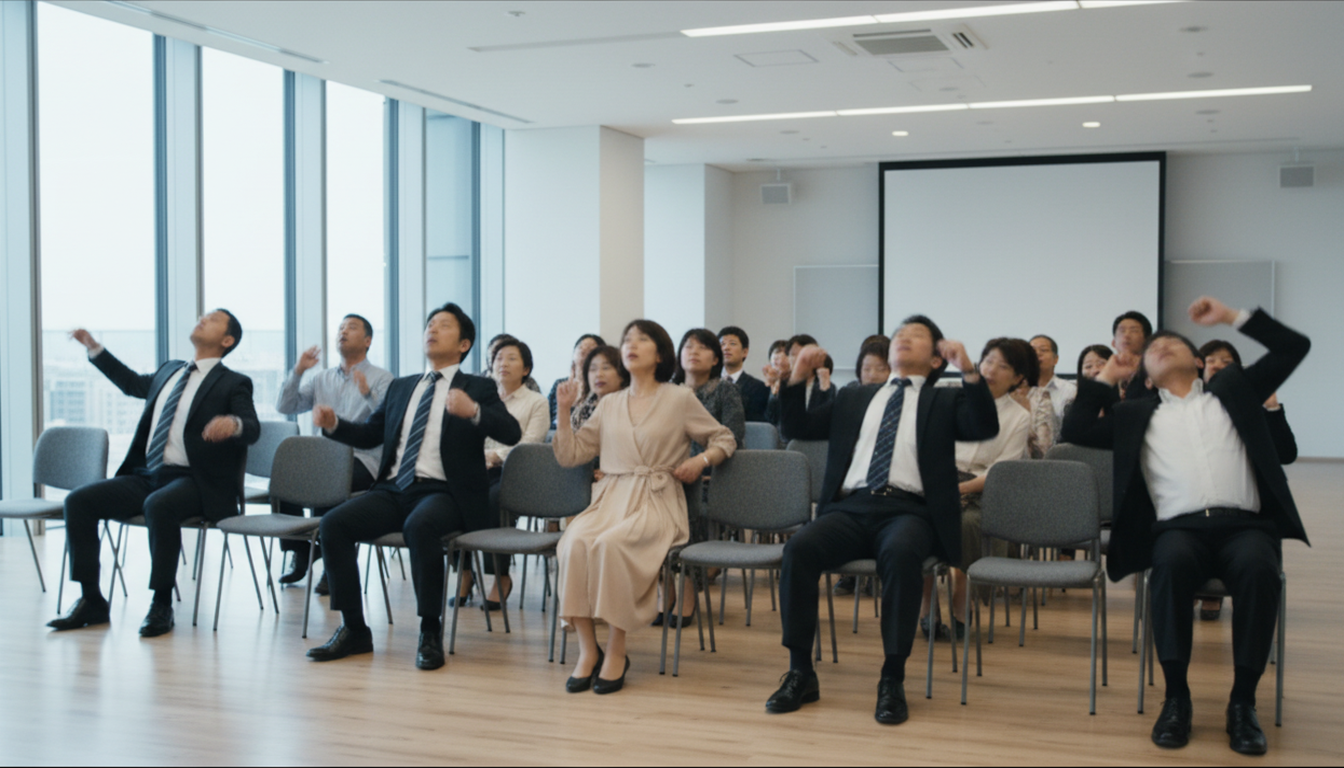
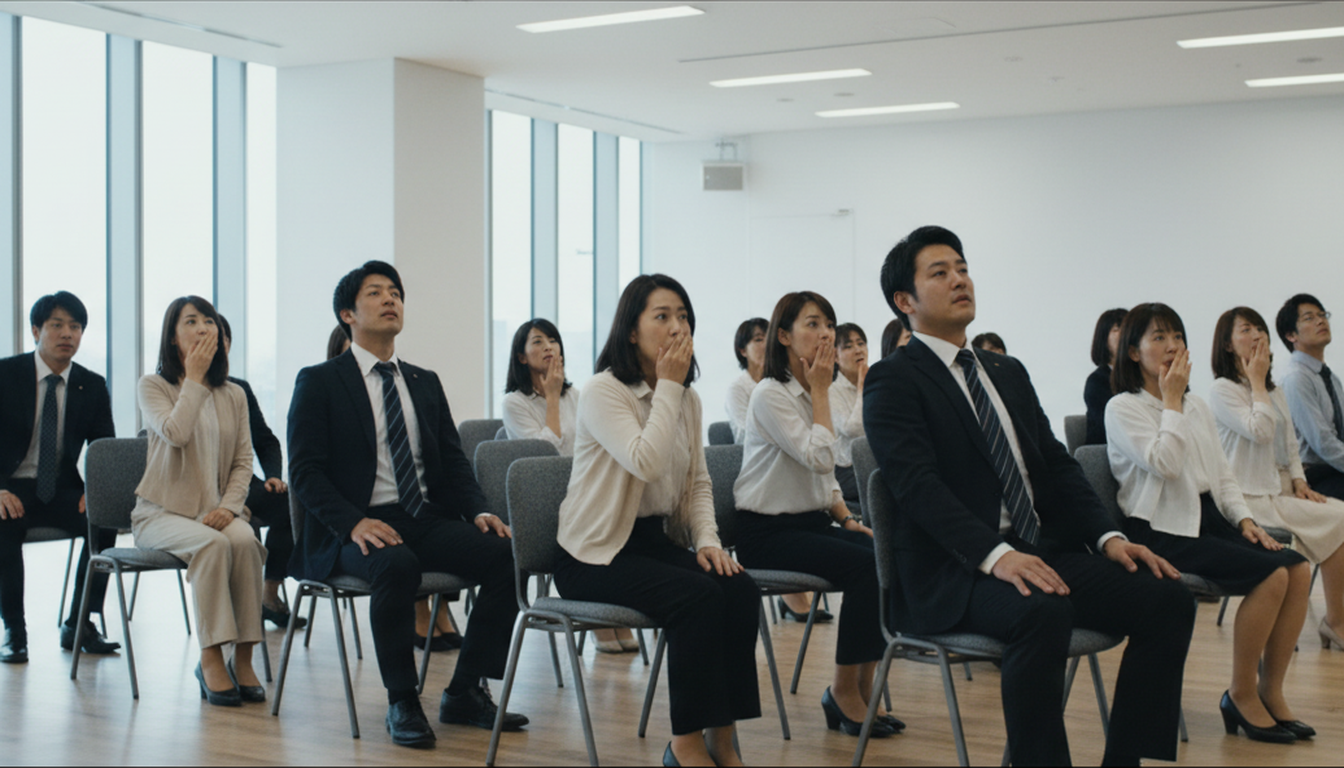
키프레임 2차 재생성 합격 반영(S14n2·S15c·S15a 크롭), 3차 재생성 스펙 3장(S14h·S16g 기준 S14n2, S05c 얼굴 셀 제외)
Claude-Session: https://claude.ai/code/session_01NcCUyptYk83EHSkd2nddfa

diff --git a/scripts/build_tower_keyframes.py b/scripts/build_tower_keyframes.py
@@ -85,24 +85,25 @@ REIKA_BY_EXPR = {"panic": "assets/portraits/tower-kf-a/S14l-1.png", "tears": "as
 FIX_B = {
     "S01d": "Insert: the brushed-steel passenger elevator doors are almost fully closed, leaving only a narrow vertical gap of about a hand's width; through the gap we glimpse ONE slice of Reika's face with a red-lipped smirk. The steel door surfaces are matte brushed metal with NO reflections of faces. Exactly one person.",
     "S05f": "Low insert at knee height ONLY: on the stage a woman's knees in cream wide-leg trousers crossing one over the other, nude heels; her face and upper body are NOT in frame. NOT a full-body shot.",
-    "S14h": "Tight chest-up close-up of Reika at the lectern: her confident smile has FROZEN and cracked — eyes fixed and frightened, a single bead of sweat running down her temple, face pale. NOT smiling happily. No hands.",
+    "S14h": "Eye-level tight chest-up close-up of Reika at the lectern, her face frozen in shock: eyes fixed and frightened, mouth slightly open, a single bead of sweat running down her temple, face pale. NO smile at all. No hands.",
     "S14n2": "High angle close-up of Reika (chest-up) staring down at something off-frame below, colour draining from her face, lips parted in fear. Her hands are NOT visible and she holds NOTHING.",
-    "S16g": "High angle tight close-up of Reika at the lectern, trembling, lips parted, eyes glassy with fear, face pale. NOT smiling. No hands.",
+    "S16g": "Camera ABOVE her eye line looking DOWN (high angle), tight close-up of head and shoulders only — NOT a medium shot, the lectern is NOT visible. Reika trembling, lips parted, eyes glassy with fear, face pale. NOT smiling. No hands.",
     "S17a": "ONE single frame (NOT two panels, NOT a split screen): side insert at floor level of a woman's knees in cream wide-leg trousers buckling, nude heels wobbling on the pale wood stage floor; her upper body NOT in frame.",
     "S17e2": "High angle tight close-up of Reika SITTING ON THE FLOOR, devastated: mouth falling open, tears welling and running, mascara slightly smudged. NOT smiling. No hands.",
     "S17g": "High angle close-up of Reika SITTING ON THE FLOOR beside the lectern, looking up pleadingly with wet eyes toward the front row, desperate. NOT standing, NOT smiling.",
     "S19d": "High angle tight close-up of Reika in the lobby clutching a stack of moving boxes against her chest (box edges at the bottom of frame), jaw clenched, eyes lowered in humiliation, lips pressed tight. NOT smiling, NOT surprised.",
     "S14e": "", "S14a": "", "S14c": "",
     # 크롭으로 못 고치는 인서트(얼굴을 자르면 4배 확대, 핸드 마이크라 스탠드를 쥔 손이 없음)
-    "S05c": "Tight insert framed from the shoulders down to the waist ONLY: three seated women side by side in the front row clapping eagerly in front of their chests (pink sweater, white blouse, beige cardigan); their heads and faces are OUT OF FRAME above the top edge. Hands with exactly five fingers each.",
+    "S05c": "Close insert of clapping hands at chest height: the camera is low and close, the top edge of the frame cuts across three seated women's collarbones, so only their torsos and clapping hands are in the picture (pink sweater, white blouse, beige cardigan) with blurred seated residents behind. Do NOT draw heads; NO masks, NO circles, NO blur patches, NO stickers. Hands with exactly five fingers each.",
     # B 재생성 2차(2026-10-07): S14l(굳은 미소) 참조가 미소를 끌고 옴 → 재생성 합격 공포 얼굴, 빈 의자 배경 → 주민 뒷머리 전경(S16d)
     "S15c": "Medium of the front rows of seated residents (men in suits, women in blouses) startled by a shout: they lean back slightly in their chairs with wide eyes, a few cover their mouths with one hand. Arms stay DOWN — nobody raises arms, nobody throws hands up, nobody stands. Faces soft and unrecognizable.",
     "S15a": "Macro insert, ONE hand only: a woman's hand with a thin gold bangle and cream tweed sleeve cuff tightly gripping the vertical chrome shaft of a microphone stand on the wooden lectern, knuckles white with tension. The microphone is mounted on the stand (NOT handheld). Her face is NOT in frame. Exactly five fingers.",
 }
 
 
-FEAR_FACE = {"S14h": "assets/portraits/tower-cast/cells/reika-fear-1.png", "S16g": "assets/portraits/tower-cast/cells/reika-fear-2.png",
+FEAR_FACE = {"S14h": "assets/portraits/tower-cast/cells/reika-fear-3.png", "S16g": "assets/portraits/tower-cast/cells/reika-fear-3.png",
              "S14n2": "assets/portraits/tower-cast/cells/reika-fear-1.png"}
+FEAR_HALL = "assets/portraits/tower-cast/cells/reika-fear-3.png"  # B 재생성 2차 합격 S14n2: 공포 얼굴 + 주민 배경(3차 기준)
 HALL_FRONT = "assets/portraits/tower-kf-b/S16d-1.png"  # 승인 B: 단상의 레이카, 전경에 주민 뒷머리
 BG_FRONT = ("Background geometry: the camera is among the seated audience facing the stage, so behind Reika are only the white wall, "
             "the window band and the pale projection screen, softly out of focus; the blurred backs of residents' heads fill the lower "
@@ -111,6 +112,10 @@ BG_FRONT = ("Background geometry: the camera is among the seated audience facing
 
 def describe(path, i):
     name = os.path.basename(path)
+    if path == FEAR_HALL:
+        return (f"Reference image {i} is the APPROVED shot of Reika frightened in the packed assembly hall: copy exactly this face, hair, "
+                "makeup, earrings, jacket, the frightened expression (NO smile) and the hall background with seated residents; change ONLY "
+                "the camera angle and framing as described.")
     if path in FEAR_FACE.values():
         return (f"Reference image {i} is the APPROVED face of Reika frightened: copy exactly this face, hair, makeup, pearl earrings, "
                 "jacket and the frightened expression (NO smile); ignore its background completely.")
@@ -157,8 +162,11 @@ def notes(refs):
 
 def build(sc, face_refs):
     refs = list(face_refs) + sc["refs"] + EXTRA_REFS.get(sc["id"], [])
+    if sc["id"] == "S05c":  # 얼굴 셀이 얼굴을 그리게 한 뒤 동그라미로 가림(B 2차 실증) → 장소 셀만, 의상은 문장으로
+        refs = [r for r in refs if "/cells/loc-" in r]
     if sc["id"] in FEAR_FACE:
-        refs = [FEAR_FACE[sc["id"]]] + [HALL_FRONT if r.endswith(("loc-hall-p4.png", "loc-hall-p2.png")) else r for r in sc["refs"]]
+        refs = [FEAR_FACE[sc["id"]]] + ([] if FEAR_FACE[sc["id"]] == FEAR_HALL else
+                                        [HALL_FRONT if r.endswith(("loc-hall-p4.png", "loc-hall-p2.png")) else r for r in sc["refs"]])
     if sc["id"] in FIX_A or (sc["kind"] in ("face", "react", "sil", "d") and sc["size"] != "ecu"):  # 단상·후면 셀은 흰 벽만 찍혀 배경이 스튜디오처럼 나옴(A단계 실증) → 스크린·창이 보이는 회의실 셀
         refs = [HALL_BG if r.endswith(("loc-hall-p4.png", "loc-hall-p2.png")) else r for r in refs]
     parts = ["Create ONE single photorealistic cinematic film still in 16:9 widescreen — one frame only, NOT a grid, no panels, no borders, no captions."]
@@ -167,7 +175,7 @@ def build(sc, face_refs):
     parts += notes(refs)
     if FIX_B.get(sc["id"]):
         parts.insert(1, FIX_B[sc["id"]])
-    if sc["id"] in FEAR_FACE:
+    if sc["id"] in FEAR_FACE and FEAR_FACE[sc["id"]] != FEAR_HALL:
         parts.insert(2, BG_FRONT)
     if sc["id"] in FIX_A:
         parts.insert(1, FIX_A[sc["id"]])

diff --git a/productions/tower-bossmom-ja/fix_keyframes.py b/productions/tower-bossmom-ja/fix_keyframes.py
@@ -9,6 +9,7 @@ from PIL import Image, ImageFilter
 HERE = os.path.dirname(os.path.abspath(__file__))
 REPO = os.path.abspath(os.path.join(HERE, "..", ".."))
 SRC = os.path.join(REPO, "assets", "portraits", "tower-kf-b")
+SRC_R = os.path.join(REPO, "assets", "portraits", "tower-kf-b-r")  # 재생성분(있으면 우선)
 DST = os.path.join(REPO, "assets", "portraits", "tower-keyframes")
 
 # 인서트 크롭(16:9 박스, x0, y0, x1, y1) — 스펙의 ECU·인서트 구도로 좁힌다
@@ -20,6 +21,7 @@ CROPS = {
     "S14n": (360, 226, 640, 384),   # 통장을 내려놓는 손
     "S16i": (160, 249, 400, 384),   # 지팡이 손잡이를 쥔 손
     "S16i2": (186, 220, 426, 355),  # 체인 끈을 쥔 떨리는 손가락
+    "S15a": (160, 110, 480, 290),   # 재생성분: 스탠드를 쥔 손(빈 마이크 집게·왼쪽 종이 제외)
 }
 # 흐림 영역 — 키즈룸 복도 벽 게시물·작은 메모(가짜 글자). 배경 심도처럼 보이게 강하게 흐린다
 BLURS = {
@@ -43,9 +45,14 @@ def blur(im, box, r=7):
     im.paste(reg, (x0 - pad, y0 - pad), m)
 
 
+def src(sid):
+    r = os.path.join(SRC_R, f"{sid}-1.png")
+    return r if sid == "S15a" else os.path.join(SRC, f"{sid}-1.png")
+
+
 def main():
     for sid, box in CROPS.items():
-        im = Image.open(os.path.join(SRC, f"{sid}-1.png")).convert("RGB")
+        im = Image.open(src(sid)).convert("RGB")
         c = im.crop(tuple(2 * v for v in box))
         print(f"{sid}: 크롭 {c.size} → 1344x768 ({1344 / c.size[0]:.1f}배)")
         c.resize(im.size, Image.LANCZOS).save(os.path.join(DST, f"{sid}-1.png"))

diff --git a/scripts/build_tower_phase3.py b/scripts/build_tower_phase3.py
@@ -307,7 +307,7 @@ SHOTS = [
     S("S14f", "S14", "react", "cu", "hall", "EL", ["MAMAA"], "HALL_ROWS", "Close-up of Mama A frozen in shock, wide eyes, lips parted.", fx="split3", expr="shock"),
     S("S14g", "S14", "sil", "ws", "hall_reveal", "LA", ["CROWD"], "HALL_REV", "Low angle: silhouettes of residents rising one by one from their seats against the bright windows.", fx="split3",
       motion="Two or three silhouettes slowly stand up; the rest stay seated."),
-    S("S14h", "S14", "react", "cu", "hall_press", "EL", ["REIKA"], "HALL_LECTERN", "Chest-up close-up of Reika at the lectern, smile frozen, a single bead of sweat running down her temple.", fx="split3", expr="panic"),
+    S("S14h", "S14", "react", "cu", "hall_press", "EL", ["REIKA"], "HALL_LECTERN", "Chest-up close-up of Reika at the lectern, her face frozen in shock, a single bead of sweat running down her temple.", fx="split3", expr="panic"),
     S("S14i", "S14", "reuse:S14e", "ws", "hall_reveal", "EL", [], None, "Reuse of S14e (pair 3 frozen) under the killing line.", line="line041"),
     S("S14j", "S14", "sil", "ews", "hall_reveal", "HA", ["CROWD"], "HALL_REV",
       "From beside the lectern looking out over the packed hall: a hundred heads all turned toward the screen, backlit, faces unrecognizable.", line="line042",

diff --git a/productions/tower-bossmom-ja/07_샷리스트.md b/productions/tower-bossmom-ja/07_샷리스트.md
@@ -199,7 +199,7 @@
 | S14e | 06:09.07 - 06:10.22 | 1.60s | gfx | ws | EL | hall_reveal |  |  | Screen graphic pair 3 frozen: 3,000,000円 ⇄ 「主人が買ってくれた新作♥」, ざ |
 | S14f | 06:10.22 - 06:12.12 | 1.60s | still | cu | EL | hall | split3 |  | Close-up of Mama A frozen in shock, wide eyes, lips parted. |
 | S14g | 06:12.12 - 06:14.02 | 1.60s | lite | ws | LA | hall_reveal | split3 |  | Low angle: silhouettes of residents rising one by one from t |
-| S14h | 06:14.02 - 06:15.17 | 1.60s | still | cu | EL | hall_press | split3 |  | Chest-up close-up of Reika at the lectern, smile frozen, a s |
+| S14h | 06:14.02 - 06:15.17 | 1.60s | still | cu | EL | hall_press | split3 |  | Chest-up close-up of Reika at the lectern, her face frozen i |
 | S14i | 06:15.17 - 06:17.17 | 2.00s | reuse | ws | EL | hall_reveal |  | line041 | Reuse of S14e (pair 3 frozen) under the killing line. |
 | S14j | 06:17.17 - 06:22.06 | 4.55s | lite | ews | HA | hall_reveal |  | line042 | From beside the lectern looking out over the packed hall: a  |
 | S14k | 06:22.06 - 06:27.12 | 5.26s | lite | ms | SIDE | hall |  | line043 | Side-rear medium: a middle-aged man in a navy polo shirt sta |
